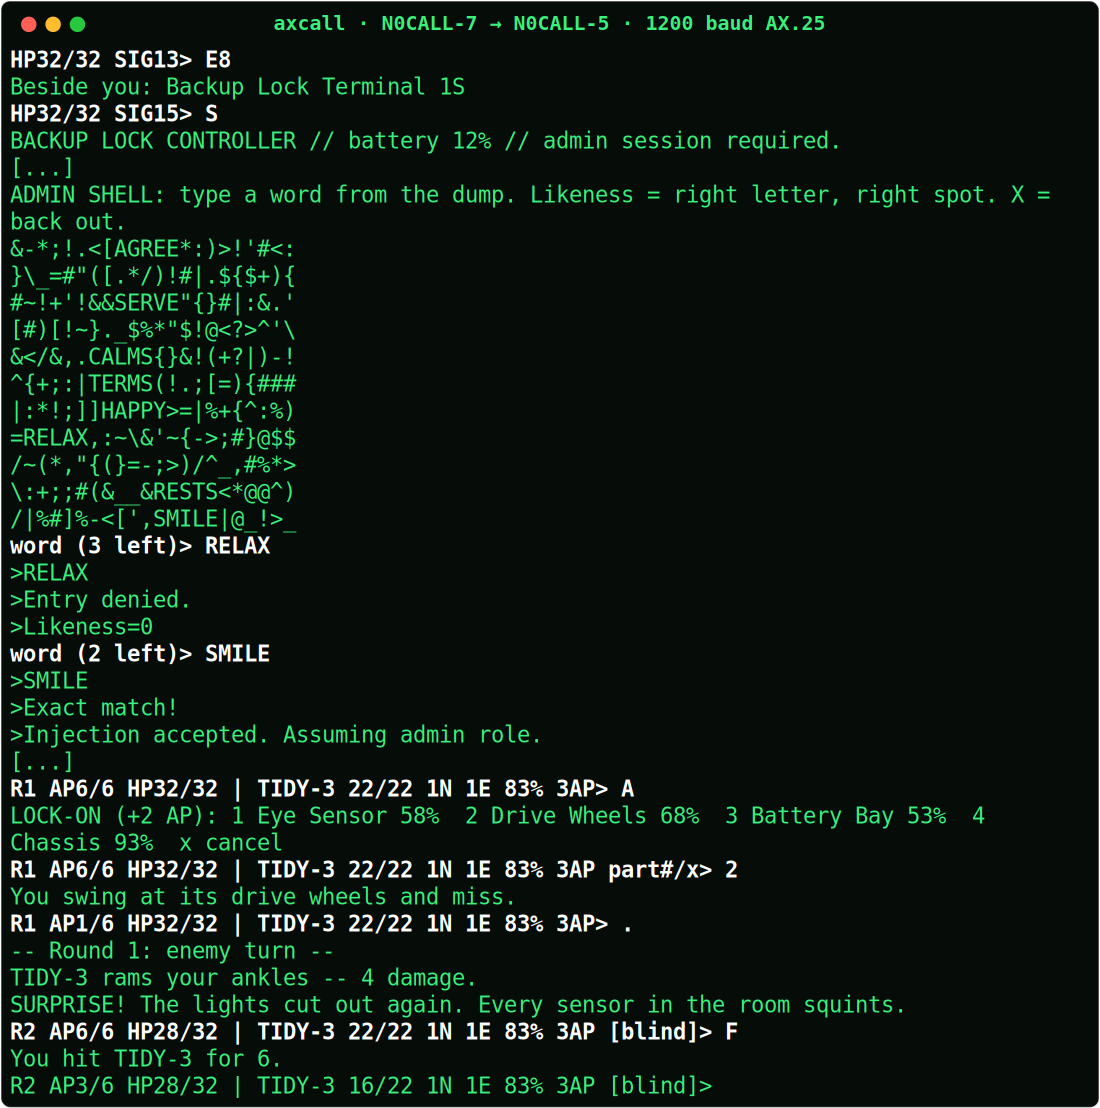
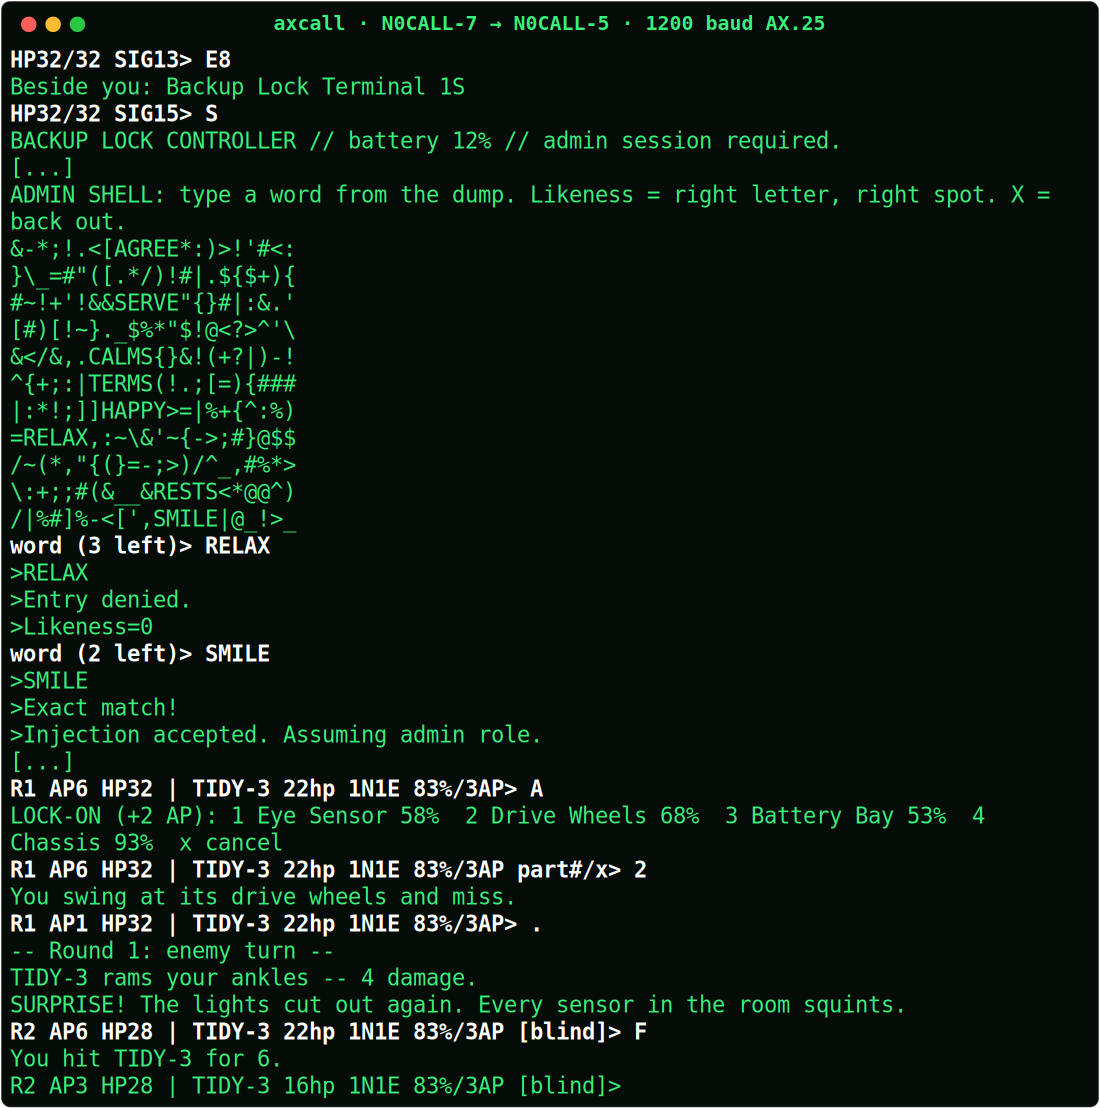
Airtime audit: tighter line-mode replies, a budget test (0.9.1)
Audited all 551 line-mode replies of a full playthrough with AX.25 framing
simulated (paclen 128, maxframe 4, TXDELAY 400 ms): longest key-down 4.5 s
(far under the UV-5R 60 s TOT), one-player duty cycle ~13.5%.

Line mode only: compact combat prompt (R1 AP6 HP32 | TIDY-3 22hp 1N1E
83%/3AP; FAR for out of range), maps once per connection per location, hack
instructions once per connection, shorter quest prefixes, combat tip
631 -> 418 B. Bytes per playthrough -3.7%; largest reply 967 -> 957 B.

Station guide: TXDELAY 400 -> 300 ms is worth ~6% of node TX time (modelled);
keep paclen 128. New test_airtime_budget guards max reply, mean reply and
simulated key-down length. Packet screenshots regenerated.

Claude-Session: https://claude.ai/code/session_01UcWzCzquvyJEbeXtHtivFK

Changed region(s): [[0.0927, 0.9206, 0.68, 1.0], [0.0927, 0.7671, 0.68, 0.8592], [0.0927, 0.7058, 0.5873, 0.7365]]

diff --git a/tos/line/session.py b/tos/line/session.py
@@ -57,12 +57,20 @@ class Session:
         self.confirm_new = False
         self.go_text = ""
         self.last_beside: tuple = ()
+        self.mapped: set[str] = set()  # locations whose map was already sent on this connection
+        self.hack_explained = False
         self.done = False
 
     # ---- output -----------------------------------------------------------
+    QUEST_PREFIXES = (("QUEST UPDATED: ", "QUEST: "), ("NEW QUEST: ", "NEW QUEST: "), ("QUEST COMPLETE: ", "DONE: "))
+
     def say(self, text: str, log: bool = True) -> None:
         if log and self.state is not None:
             self.state.say(text)
+        for long, short in self.QUEST_PREFIXES:
+            if text.startswith(long):
+                text = short + text[len(long):]
+                break
         self.out += R.wrap(text)
 
     def lines(self, ls) -> None:
@@ -215,7 +223,10 @@ class Session:
         self.lines([f"== {self.loc.district} - {self.loc.name} =="])
         if self.brief:
             self.lines(R.look(self.loc))
+        elif self.loc.id in self.mapped:
+            self.lines(["(M for map, L to look around)"])  # seen it this connection: save ~250 B of airtime
         else:
+            self.mapped.add(self.loc.id)
             self.show_map(header=False)
 
     def show_map(self, header: bool = True) -> None:
@@ -550,14 +561,15 @@ class Session:
 
     def combat_status(self) -> str:
         cb, p = self.combat, self.state.player
-        s = f"R{cb.round} AP{cb.ap}/{cb.max_ap} HP{p.hp}/{p.max_hp}"
+        # Sent after every combat action, so every byte counts: R1 AP6 HP32 | TIDY-3 22hp 1N1E 83%/3AP
+        s = f"R{cb.round} AP{cb.ap} HP{p.hp}"
         t = cb.target()
         if t:
             px, py = self.state.pos
-            s += (f" | {t.name} {max(0, t.hp)}/{t.max_hp} {R.direction(t.x - px, t.y - py)}"
-                  f" {cb.hit_chance(t)}% {cb.attack_cost()}AP")
+            where = R.direction(t.x - px, t.y - py).replace(" ", "")
+            s += f" | {t.name} {max(0, t.hp)}hp {where} {cb.hit_chance(t)}%/{cb.attack_cost()}AP"
             if not cb.in_range(t):
-                s += " OUT OF RANGE"
+                s += " FAR"
             if t.status:
                 s += " [" + ",".join(t.status) + "]"
             others = len(cb.enemies()) - 1
@@ -697,7 +709,11 @@ class Session:
         self.hack = for_terminal(self.state, self.c, spec, self.rng)
         self.hack_eid = eid
         self.mode = "hack"
-        self.lines(["ADMIN SHELL: type a word from the dump. Likeness = right letter, right spot. X = back out."])
+        if not self.hack_explained:
+            self.lines(["ADMIN SHELL: type a word from the dump. Likeness = right letter, right spot. X = back out."])
+            self.hack_explained = True
+        else:
+            self.lines(["ADMIN SHELL (X = back out, D = dump):"])
         self.show_dump()
 
     def show_dump(self) -> None:

diff --git a/tests/test_line.py b/tests/test_line.py
@@ -3,6 +3,7 @@ commands only, plus entry-point checks. Prints reply sizes and an airtime estima
 
 Run: python tests/test_line.py
 """
+import math
 import os
 import random
 import subprocess
@@ -727,6 +728,31 @@ def test_cli_broken_pipe_is_quiet():
                        shell=True, cwd=ROOT, capture_output=True, timeout=30,
                        env=dict(os.environ, QCTS_SAVE_DIR=tempfile.mkdtemp()))
     assert b"Traceback" not in r.stderr, r.stderr
+
+
+def keydowns(n: int, paclen: int = 128, maxframe: int = 4, txdelay: float = 0.4) -> list[float]:
+    """Seconds of each transmitter key-down for an n-byte reply: frames of `paclen`, sent `maxframe`
+    at a time, ~20 B of address/control/flags per frame, 8.25 bits/byte with bit stuffing, 1200 baud."""
+    frames, out, left = max(1, math.ceil(n / paclen)), [], n
+    while frames > 0:
+        k = min(maxframe, frames)
+        frames -= k
+        b = min(left, k * paclen)
+        left -= b
+        out.append(txdelay + (b + k * 20) * 8.25 / 1200)
+    return out
+
+
+def test_airtime_budget():
+    """Guard rails for the air: run after test_quests_1_to_6 (it fills REPLIES).
+    Limits: UV-5R time-out timer (no single key-down near it) and channel courtesy (small replies)."""
+    if not REPLIES:
+        test_quests_1_to_6()
+    sizes = [len(r) for r in REPLIES]
+    assert max(sizes) <= 1000, f"largest reply {max(sizes)} B: trim one-time text"
+    assert sum(sizes) / len(sizes) <= 170, f"mean reply {sum(sizes) / len(sizes):.0f} B"
+    longest = max(k for n in sizes for k in keydowns(n))
+    assert longest <= 6.0, f"a single key-down of {longest:.1f}s"
 
 
 def airtime(n: int) -> float:

diff --git a/docs/CHANGELOG.md b/docs/CHANGELOG.md
@@ -1,5 +1,41 @@
 # Changelog
 
+## 0.9.1 — Airtime audit (2026-11-25)
+
+An audit of every line-mode reply across a full playthrough (chapter one plus chapter two quests 1–2, 551 replies), with AX.25 framing simulated (paclen 128, maxframe 4, TXDELAY 400 ms, 1200 baud).
+
+**Limits: all clear**
+
+| Measure | Result | Limit |
+| --- | --- | --- |
+| Longest single key-down | 4.5 s (p95 4.0 s) | UV-5R time-out timer: 60 s by default, 15 s minimum |
+| Node transmit time per reply | 1.7 s average | — |
+| Duty cycle, one player at ~8 s per command | about 13.5% | Channel courtesy; three players approach 40% |
+
+Part 97 sets no maximum transmission length on 2 m. Every frame carries the station callsign.
+
+**Tightened (line mode only; the Textual UI is unchanged)**
+- **Combat prompt:** `R1 AP6/6 HP32/32 | TIDY-3 22/22 1N 1E 83% 3AP` became `R1 AP6 HP32 | TIDY-3 22hp 1N1E 83%/3AP`. `FAR` replaces `OUT OF RANGE`. The combat tip teaches it with an example.
+- **Maps:** a location's map is sent once per connection; revisits get the header and "(M for map, L to look around)".
+- **Hacks:** the full instructions are sent on the first hack per connection.
+- **Quest lines:** "QUEST UPDATED:" became "QUEST:", and "QUEST COMPLETE:" became "DONE:".
+- **Combat tip:** 631 → 418 B.
+
+**Results**
+
+| | Before | After |
+| --- | --- | --- |
+| Bytes per playthrough | 87,122 | 83,903 (−3.7%) |
+| Mean reply | 158 B | 152 B |
+| Largest reply | 967 B | 957 B |
+
+- Most of each reply's airtime is fixed overhead, not text: the transmit delay, frame headers and turnarounds. Station settings therefore matter more. Modelled:
+  - **TXDELAY 400 → 300 ms:** −6% node transmit time.
+  - **Paclen 256:** −5%, but 7.5 s key-downs.
+  - The station guide now says to tune TXDELAY down on the bench and keep paclen 128.
+- A new **`test_airtime_budget`** fails if the largest reply passes 1,000 B, the mean passes 170 B, or any simulated key-down passes 6 s.
+- The README's packet screenshots were regenerated with the new prompt.
+
 ## 0.9.0 — Chapter two, quest 2: Known Issues (2026-11-25)
 
 **Content**

diff --git a/docs/LEVEL_GUIDE.md b/docs/LEVEL_GUIDE.md
@@ -25,7 +25,7 @@ Same game and same saves format, but typed commands instead of keys. Saves are p
 | Where | Commands |
 | --- | --- |
 | Exploring | `N` `S` `E` `W` move (`N3` = three steps, stops when something happens) · walk into things to use them · `L` what's around you and which way · `M` map · `I` items (`I 2` details) · `USE n`/`EQ n` (number or name: `EQ TIRE`) · `ST` status · `Q` quests + orientation step · `NOTES` (`NOTES 1`) · `PERKS` / `PERK n` · `CRAFT` / `CRAFT n` (at a workbench) · `SAVE` · `BYE` save + disconnect · `BRIEF`/`VERBOSE` · `?` |
-| Combat | `N` `S` `E` `W` move (1 AP) · `F` attack · `A` then `1`–`4`, or `A2` in one go (+2 AP) · `T` next target · `U` best heal (2 AP) · `.` end turn. The prompt shows round, AP, HP, then the target's HP, direction, hit % and AP cost. |
+| Combat | `N` `S` `E` `W` move (1 AP) · `F` attack · `A` then `1`–`4`, or `A2` in one go (+2 AP) · `T` next target · `U` best heal (2 AP) · `.` end turn. The prompt is your status, e.g. `R1 AP6 HP32 | TIDY-3 22hp 1N1E 83%/3AP`: round, AP, HP, then the target's HP, direction, hit % / AP per attack (`FAR` = out of range). Location maps are sent once per connection; `M` shows one again. |
 | Talking | reply with the option number |
 | Hacking | type a word · `D` reprint the dump · `X` back out |
 | City map | the destination's number · `X n` about it |

diff --git a/deploy/pi-os/README.md b/deploy/pi-os/README.md
@@ -49,6 +49,8 @@ sudo nano /etc/qcts/allow                   # callsigns allowed to play, no SSID
    - Start at 40 (400 ms).
    - If the other side misses the start of your frames, go up in steps of 5.
    - If it's solid, try going down. The UV-5R is slow to switch from TX to RX.
+   - **It's the cheapest airtime win:** 400 → 300 ms cuts about 6% of the node's total transmit time (modelled over a full playthrough). Go as low as stays reliable.
+   - Keep **paclen 128 / maxframe 4**. Paclen 256 saves about 5% more, but stretches the longest key-down from ~4.5 s to ~7.5 s and doubles the cost of each lost frame.
 4. Play to the first save, `BYE`, reconnect, and check it resumes.
 5. Pull the other station's power mid-game, reconnect, and check progress was kept.
 6. **Kill switch:** `sudo qcts-off`. Confirm the radio cannot key.
